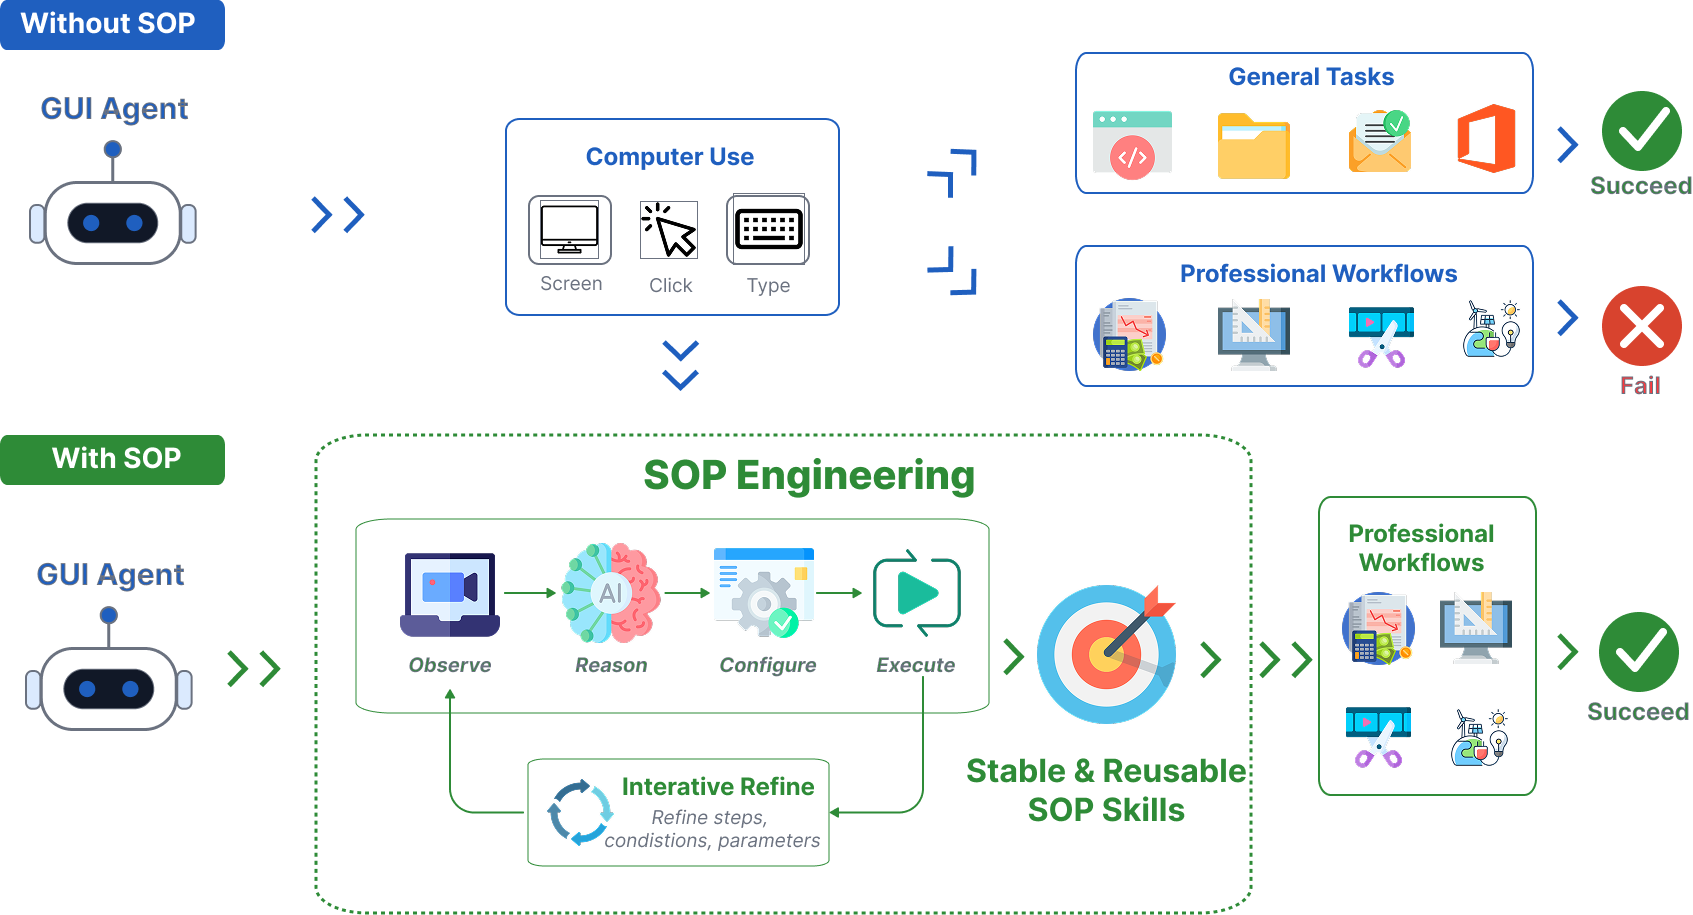
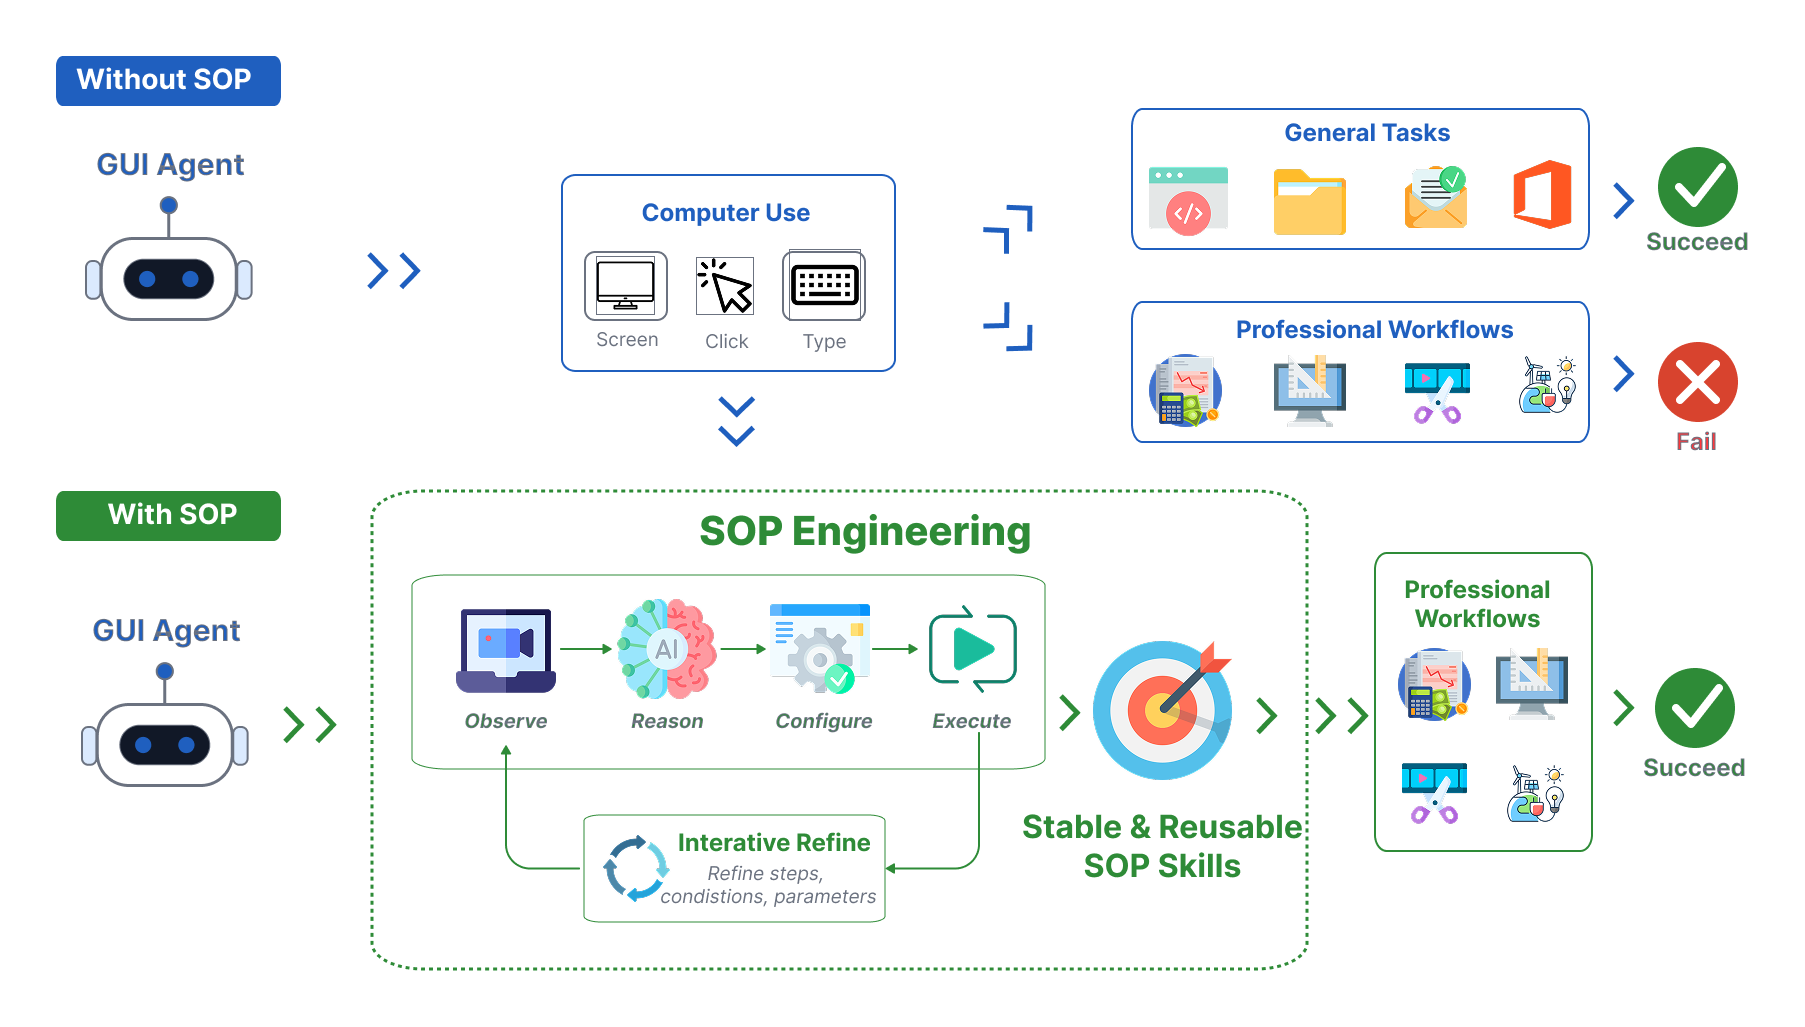
docs: restructure README and fix overview figure padding
Figure (assets/sop-overview.png, 1693x915 -> 1805x1027):
- add 56px uniform white padding; content previously bled to all four
  edges (left=0, top=0, bottom=0)
- restore the clipped left rounded corners of the "Without SOP" /
  "With SOP" label pills, which were cut flat at x=0

README:
- fix dead anchor #distribution-note, left over from renaming that
  section during the source release
- merge the duplicate "Requirements" headings into a single table under
  a new "Getting Started" section
- correct the OmniParser example port (8000 -> 8101) and document
  PADDLEX_URL, which Observe requires but the config section omitted
- center the header block, add License/Python/Platform badges, constrain
  the figure width and add a caption
- move "Safety and Privacy" above "License" and link to it from a
  warning callout at the top of Usage

diff --git a/README.md b/README.md
@@ -1,16 +1,35 @@
+<div align="center">
+
 # OmegaUse-SOP
 
 **SOP Engineering for Professional Computer Use from Human Demonstrations**
 
-*Baidu, Inc. × Ningxia Electric Power Engineering Co., Ltd.*
+Baidu, Inc. &nbsp;×&nbsp; Ningxia Electric Power Engineering Co., Ltd.
 
-[📺 Demo Video](https://www.youtube.com/watch?v=FQO_eyL_seE) · [📄 Paper](#citation)
+[![License](https://img.shields.io/badge/License-Apache_2.0-blue.svg)](LICENSE)
+[![Python](https://img.shields.io/badge/Python-3.12+-3776AB?logo=python&logoColor=white)](pyproject.toml)
+[![Platform](https://img.shields.io/badge/Platform-Windows_10%2F11-0078D6?logo=windows&logoColor=white)](#requirements)
 
----
+[📺 Demo Video](https://www.youtube.com/watch?v=FQO_eyL_seE) &nbsp;·&nbsp;
+[📄 Citation](#citation) &nbsp;·&nbsp;
+[🚀 Getting Started](#getting-started) &nbsp;·&nbsp;
+[⚠ Safety and Privacy](#safety-and-privacy)
 
-![Comparison between GUI agents without SOP (top) and with SOP (bottom)](assets/sop-overview.png)
+<br>
 
-*General computer use succeeds on general tasks but fails on professional workflows (top). With SOP Engineering — Observe → Reason → Configure → Execute plus iterative refinement — demonstrations become stable, reusable SOP skills that make professional workflows succeed (bottom).*
+<img src="assets/sop-overview.png" alt="Comparison between GUI agents without SOP (top) and with SOP (bottom)" width="880">
+
+<p>
+<em>
+General computer use succeeds on general tasks but fails on professional workflows <b>(top)</b>.<br>
+With SOP Engineering — Observe → Reason → Configure → Execute plus iterative refinement —<br>
+demonstrations become stable, reusable SOP skills that make professional workflows succeed <b>(bottom)</b>.
+</em>
+</p>
+
+</div>
+
+## Overview
 
 OmegaUse-SOP is a **human-in-the-loop SOP Engineering system** that transforms human demonstrations of professional computer use into reusable **SOP skills** for GUI agents.
 
@@ -47,14 +66,18 @@ Case study on five professional photovoltaic-simulation SOP tasks in **PVsyst 7.
 
 Ablation: removing the **Reason** module drops Qwen3-VL from 5/5 to 2/5 — semantic abstraction of demonstrations is essential for reusable SOPs.
 
-## Requirements
+## Getting Started
 
-- **Windows 10/11** (the agent controls desktop applications through Windows UI automation)
-- **Python 3.12** (exactly 3.12 — see [Distribution note](#distribution-note))
-- An **OmniParser** server endpoint (UI-element detection for the Observe stage)
-- A VLM API key for an OpenAI-compatible endpoint (default: Qwen3-VL via [Baidu Qianfan](https://qianfan.baidubce.com))
+### Requirements
 
-## Installation
+| | |
+|---|---|
+| **OS** | Windows 10/11 — the agent drives desktop applications through Windows UI automation |
+| **Python** | 3.12 or newer (CPython; the pinned version is in `.python-version`) |
+| **Services** | A reachable **OmniParser** endpoint and a **PaddleOCR** endpoint for UI-element detection during Observe |
+| **Model** | A VLM API key for an OpenAI-compatible endpoint (default: Qwen3-VL via [Baidu Qianfan](https://qianfan.baidubce.com)) |
+
+### Installation
 
 ```bash
 git clone https://github.com/baidu-frontier-research/omegause-sop.git
@@ -67,13 +90,14 @@ pip install -e .
 pip install openai qwen-agent tqdm
 ```
 
-## Configuration
+### Configuration
 
 Copy `.env.example` to `.env` and fill in your endpoints:
 
 ```ini
-# OmniParser server (UI-element detection during Observe)
-OMNIPARSER_URL=http://your-omniparser-server:8000
+# UI-element detection during Observe
+OMNIPARSER_URL=http://your-omniparser-server:8101/
+PADDLEX_URL=http://your-paddleocr-server:8101/ocr
 
 # VLM API key (Baidu Qianfan ModelBuilder, OpenAI-compatible)
 QIANFAN_API_KEY=your-api-key
@@ -87,7 +111,11 @@ Optional overrides:
 | `REASON_API_URL` / `ENRICHER_API_URL` | `https://qianfan.baidubce.com/v2` | Reason |
 | `MODEL_NAME` / `API_URL` | same as above | Execute |
 
-## Usage
+### Usage
+
+> [!WARNING]
+> Recording captures your **whole screen and every keystroke**, and Execute drives your
+> **real mouse and keyboard**. Read [Safety and Privacy](#safety-and-privacy) first.
 
 ```bash
 python cli_en.py
@@ -116,6 +144,15 @@ sop/{app_name}/{session_name}/
 
 **SOP Engineering is iterative**: if an execution run fails, refine `domain.md` with the rule the agent missed (or adjust `params.md`) and execute again — no re-recording needed.
 
+## Safety and Privacy
+
+Read this before recording a demonstration.
+
+- **Recording captures everything, not just the target application.** Observe installs a *global* keyboard hook (`agents/observe/observer.py`) and takes full-screen screenshots. Anything you type while recording is active — in any window, including passwords, tokens and chat messages — is written in plain text into `recording.json`, and whatever is on screen is saved under `screenshots/`. Recordings are not encrypted or redacted. Stop the recording (`Ctrl+Alt+R`) before switching to unrelated windows, and review a session directory before sharing it.
+- **Execute drives your real mouse and keyboard.** It acts on the live desktop, not a sandbox. Run it on a machine and account where mis-clicks are acceptable, and keep your hands off the input devices while a run is in progress.
+- **PyAutoGUI's fail-safe is disabled** in `agents/execute/executor.py`, `agents/execute/action_executor.py` and `agents/observe/observer.py` (`pyautogui.FAILSAFE = False`), so moving the pointer to a screen corner will *not* abort a run. Set it back to `True` if you want that emergency stop.
+- **Prompts and model responses are printed to the console**, including the contents of `params.md`. Avoid putting secrets in the configuration files, and be careful when sharing terminal output or recordings of a run.
+
 ## Repository Layout
 
 ```
@@ -132,24 +169,13 @@ omegause-sop/
 └── domain_knowledge_template/   # example domain.md / params.md for PVsyst
 ```
 
-### Requirements
-
-The full source of every module is included in this repository. The code targets **CPython 3.12** (see `.python-version`); the Observe module additionally expects reachable OmniParser and PaddleOCR services, configured through `OMNIPARSER_URL` and `PADDLEX_URL` (see `.env.example`).
+The full source of every module is included in this repository.
 
 ## License
 
 Released under the [Apache License 2.0](LICENSE). Portions of
 `utils/agent_function_call.py` and `agents/execute/executor.py` are adapted from
 the Qwen-VL cookbooks, also Apache-2.0; see [NOTICE](NOTICE) for attribution.
-
-## Safety and Privacy
-
-Read this before recording a demonstration.
-
-- **Recording captures everything, not just the target application.** Observe installs a *global* keyboard hook (`agents/observe/observer.py`) and takes full-screen screenshots. Anything you type while recording is active — in any window, including passwords, tokens and chat messages — is written in plain text into `recording.json`, and whatever is on screen is saved under `screenshots/`. Recordings are not encrypted or redacted. Stop the recording (`Ctrl+Alt+R`) before switching to unrelated windows, and review a session directory before sharing it.
-- **Execute drives your real mouse and keyboard.** It acts on the live desktop, not a sandbox. Run it on a machine and account where mis-clicks are acceptable, and keep your hands off the input devices while a run is in progress.
-- **PyAutoGUI's fail-safe is disabled** in `agents/execute/executor.py`, `agents/execute/action_executor.py` and `agents/observe/observer.py` (`pyautogui.FAILSAFE = False`), so moving the pointer to a screen corner will *not* abort a run. Set it back to `True` if you want that emergency stop.
-- **Prompts and model responses are printed to the console**, including the contents of `params.md`. Avoid putting secrets in the configuration files, and be careful when sharing terminal output or recordings of a run.
 
 ## Citation
 
@@ -167,3 +193,7 @@ Read this before recording a demonstration.
 
 - [OmegaUse](https://arxiv.org/abs/2601.20380) — Building a General-Purpose GUI Agent for Autonomous Task Execution
 - [OmniParser](https://arxiv.org/abs/2408.00203) — Pure-vision-based screen parsing used by the Observe module
+
+
+
+
